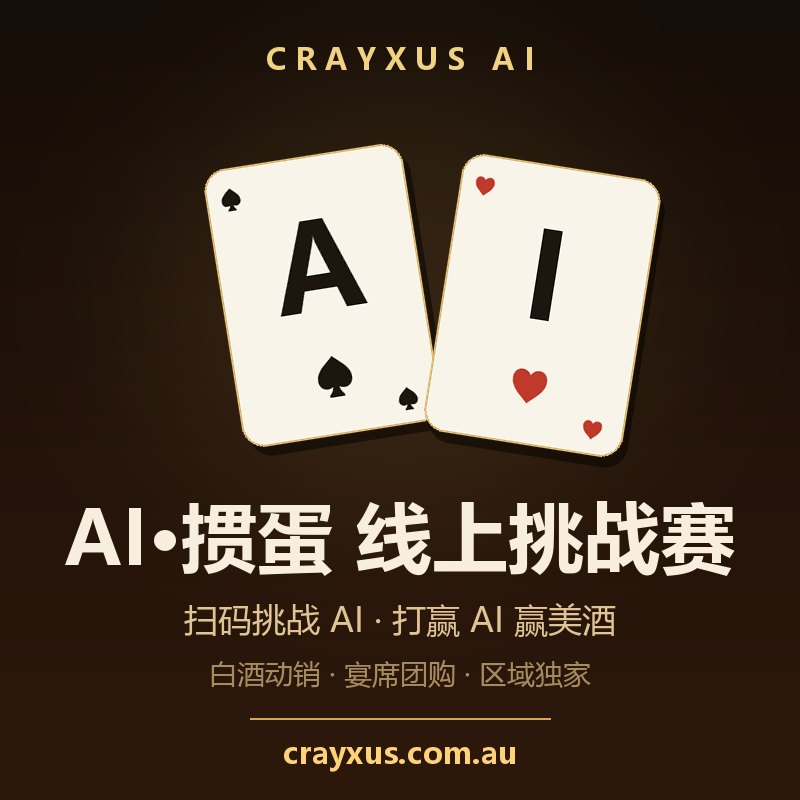
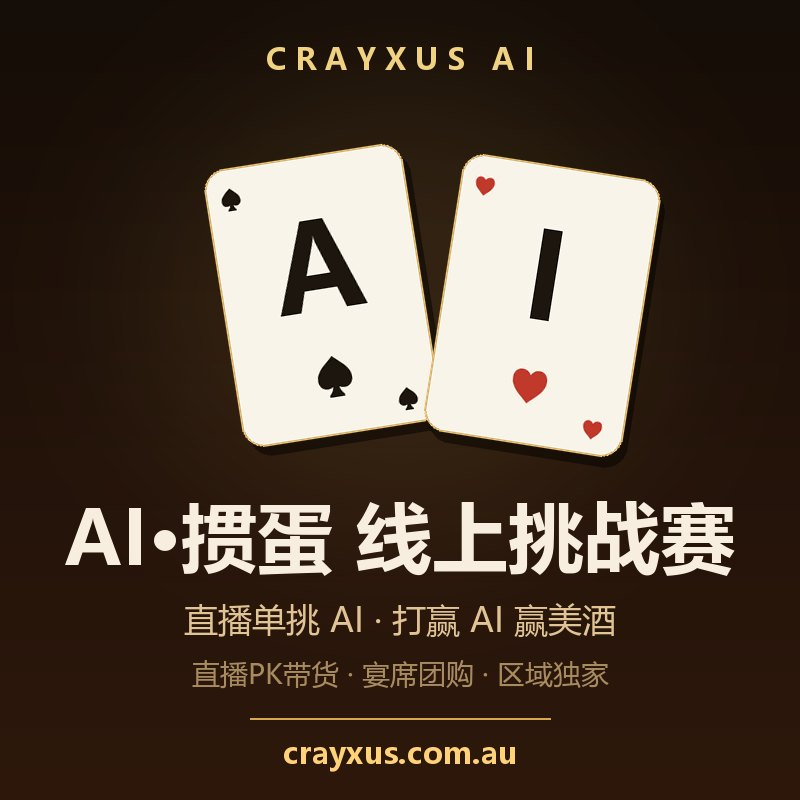
baijiu.html: 第一阶段=直播间AI掼蛋PK带货,重构为三阶段路线图 + 更新OG图

Changed region(s): [[0.2188, 0.75, 0.75, 0.875]]

diff --git a/baijiu.html b/baijiu.html
@@ -18,8 +18,8 @@
 <meta property="og:site_name" content="Crayxus AI">
 <meta property="og:title" content="AI·掼蛋 线上挑战赛 · 品牌合作方案">
 <meta property="og:description" content="浙大教授团队共同研发的掼蛋AI,600局全胜大模型。扫码1v1挑战AI赢美酒——把掼蛋变成你的营销引擎。Crayxus AI × 白酒品牌">
-<meta property="og:image" content="https://crayxus.com.au/og-baijiu.jpg?v=lq1">
-<meta property="og:image:secure_url" content="https://crayxus.com.au/og-baijiu.jpg?v=lq1">
+<meta property="og:image" content="https://crayxus.com.au/og-baijiu.jpg?v=lq2">
+<meta property="og:image:secure_url" content="https://crayxus.com.au/og-baijiu.jpg?v=lq2">
 <meta property="og:image:type" content="image/jpeg">
 <meta property="og:image:width" content="800">
 <meta property="og:image:height" content="800">
@@ -28,15 +28,15 @@
 <meta property="og:locale" content="zh_CN">
 
 <!-- 微信内置浏览器 / 老版本兜底 -->
-<meta itemprop="image" content="https://crayxus.com.au/og-baijiu.jpg?v=lq1">
-<meta name="image" content="https://crayxus.com.au/og-baijiu.jpg?v=lq1">
-<link rel="image_src" href="https://crayxus.com.au/og-baijiu.jpg?v=lq1">
+<meta itemprop="image" content="https://crayxus.com.au/og-baijiu.jpg?v=lq2">
+<meta name="image" content="https://crayxus.com.au/og-baijiu.jpg?v=lq2">
+<link rel="image_src" href="https://crayxus.com.au/og-baijiu.jpg?v=lq2">
 
 <!-- Twitter -->
 <meta name="twitter:card" content="summary_large_image">
 <meta name="twitter:title" content="AI·掼蛋 线上挑战赛 · 品牌合作方案">
 <meta name="twitter:description" content="浙大教授团队共同研发的掼蛋AI,600局全胜大模型。扫码1v1挑战AI赢美酒 — Crayxus AI × 白酒品牌">
-<meta name="twitter:image" content="https://crayxus.com.au/og-baijiu.jpg?v=lq1">
+<meta name="twitter:image" content="https://crayxus.com.au/og-baijiu.jpg?v=lq2">
 
 <style>
   :root{
@@ -171,12 +171,12 @@
 <div class="wrap">
 
 <header>
-  <div class="badge">品牌合作方案 · 2026</div>
+  <div class="badge">经销商合作方案 · 2026</div>
   <h1><span class="ai">AI</span>·掼蛋 线上挑战赛</h1>
-  <div class="hero-sub">把酒桌上最火的掼蛋,变成你撬动开瓶、动销与团购的营销武器</div>
+  <div class="hero-sub">从直播间 PK 带货开始,把酒桌上最火的掼蛋,变成你的卖酒引擎</div>
   <div class="hero-x"><b>CRAYXUS AI</b> &nbsp;×&nbsp; <b>白酒品牌 · 经销渠道</b></div>
   <div><span class="zju-pill">🎓 AI 引擎 · 浙江大学教授团队共同研发</span></div>
-  <div class="slogan">"敢不敢,挑战 <em>AI</em>?赢了,这瓶酒算我请。"<small>—— 扫瓶身码,微信打开即玩,真人 1v1 实时对战 AI。打赢 AI,赢美酒。</small></div>
+  <div class="slogan">"敢不敢,挑战 <em>AI</em>?赢了,这瓶酒算我请。"<small>—— 直播间主播单挑 AI,观众扫码同步参战。打赢 AI 送美酒,赢一局解锁秒杀价。</small></div>
 
   <!-- 扫码 1v1 对战可视化 -->
   <div class="hero-vis">
@@ -234,28 +234,30 @@
 </section>
 
 <section>
-  <h2>核心玩法 · 扫码挑战 AI 赢美酒</h2>
-  <div class="h2sub">消费者四步走完,品牌拿到一个获客 + 留资 + 传播的闭环</div>
+  <h2>第一阶段 · 直播间 AI掼蛋 PK 带货</h2>
+  <div class="h2sub">一部手机就能开播——把"人机大战"做成直播间的留人钩子和卖酒理由</div>
   <div class="flow">
-    <div class="f"><div class="n">STEP 1</div><b>扫码</b><span>扫瓶身 / 礼盒 / 物料二维码,微信直接打开</span></div>
-    <div class="f"><div class="n">STEP 2</div><b>挑战</b><span>真人 1v1 实时对战 AI,无需下载 App</span></div>
-    <div class="f"><div class="n">STEP 3</div><b>打赢</b><span>赢 AI / 达成段位,解锁奖励</span></div>
-    <div class="f"><div class="n">STEP 4</div><b>领酒</b><span>领酒 / 优惠券 / 抽奖,顺手晒朋友圈</span></div>
+    <div class="f"><div class="n">STEP 1</div><b>开播 PK</b><span>主播 1v1 实时单挑 AI,大屏显示牌局</span></div>
+    <div class="f"><div class="n">STEP 2</div><b>全员互动</b><span>观众弹幕指挥/押注 + 扫码自己挑战 AI 上榜</span></div>
+    <div class="f"><div class="n">STEP 3</div><b>打赢送酒</b><span>赢 AI 触发抽酒/送引流款,留人涨粉</span></div>
+    <div class="f"><div class="n">STEP 4</div><b>秒杀卖酒</b><span>赢一局解锁"挑战秒杀价"上小黄车,限时限量</span></div>
   </div>
   <div class="card" style="margin-top:16px">
-    <p><b>对经销商意味着什么:</b>同一张二维码,过去只换来一次抽奖;现在换来一次<b>有时长、有胜负、想分享</b>的人机对战,而且每一步都通向你的生意。</p>
+    <p><b>为什么把直播带货当第一阶段:</b>它是最快、最轻、最直接卖酒的一步——不用线下场地,今天就能开播,对着的就是你的现金流。</p>
     <ul>
-      <li><b>拉开瓶、拉加单</b>:奖励与"赢 AI"绑定——赢了当场领酒、整桌立减、送下次券,把对战的快乐直接变成开瓶率和加单。</li>
-      <li><b>绑团购、维客情</b>:对战入口可挂关注、入会、留电话,把宴席与团购的决策人沉淀成你的长期客户。</li>
-      <li><b>UGC 传播</b>:AI 段位卡、复盘报告、战胜 AI 的截图,都是客户自愿转发的物料,帮你的门店和品牌引流。</li>
-      <li><b>数据后台</b>:扫码量、参与率、开瓶、留资、加单实时可看,营销费用第一次能用数字核销。</li>
+      <li><b>启动成本最低</b>:一部手机 + 直播间 + 我们的 AI,当天就能上,不用等场地、不用铺码。</li>
+      <li><b>直接卖酒</b>:不是品牌曝光,是直播带货 GMV——"赢 AI 的爽感"立刻变成"现在下单"的冲动。</li>
+      <li><b>留人涨粉</b>:"主播能不能打赢 AI"天然留人,弹幕指挥、点赞解锁、评论抽酒,把停留、互动、涨粉一起拉起来——这正是直播算法最看重的。</li>
+      <li><b>自带素材、可复制</b>:人机大战精彩片段剪成短视频投流铺号,持续把人引回直播间;一套脚本跑通,可复制到多主播、多账号矩阵直播。</li>
+      <li><b>数据立等可取</b>:停留时长、互动率、涨粉、转化、GMV,一场直播就看出效果。</li>
     </ul>
+    <div class="price">你出:直播间 + 主播 + 账号 + 货盘奖品 · Crayxus 出:直播专用 AI 对战界面 + 观众扫码挑战 H5 + 实时榜单 + 话术脚本 SOP + 数据看板</div>
   </div>
 </section>
 
 <section>
-  <h2>三大场景包 · 为经销商量身定制</h2>
-  <div class="h2sub">围绕你真正的主战场——宴席、团购、终端,都用同一套线上 1v1 对战引擎</div>
+  <h2>第二阶段 · 把直播势能落到线下大单</h2>
+  <div class="h2sub">直播跑通、人气与客户起来后,用同一套 AI 引擎落到宴席、团购、终端——客单价更高、利润更厚</div>
 
   <div class="card">
     <h3><span class="tag">旗舰</span>宴席桌码挑战(动销主场)</h3>
@@ -303,27 +305,27 @@
   <div class="h2sub">各出所长——你掌握渠道、宴席与客户,Crayxus 提供 AI 技术引擎与区域独家</div>
   <table>
     <tr><th></th><th>你(白酒经销商)</th><th>Crayxus AI(技术方)</th></tr>
-    <tr><td><b>出什么</b></td><td>宴席 / 终端 / 团购渠道与场景 · 奖品(自有动销酒) · 客户资源 · 活动预算</td><td>线上 1v1 对战 / 测评 / 段位 / 复盘全套系统 · 品牌定制 · 桌码与物料模板 · <b>区域独家授权</b> · 数据后台</td></tr>
-    <tr><td><b>得到什么</b></td><td>开瓶与加单 · 团购与客情 · 留资与私域 · 可核销的营销数据 · 区域独门武器</td><td>系统服务费 · 按规模 / 活动计费 · 线上掼蛋课程转化</td></tr>
+    <tr><td><b>出什么</b></td><td>直播间 / 主播 / 账号 · 宴席 / 终端 / 团购渠道 · 奖品(自有动销酒) · 客户资源 · 投流与活动预算</td><td>直播专用 AI 对战界面 · 1v1 对战 / 测评 / 段位 / 复盘系统 · 直播话术脚本 SOP · 桌码与物料模板 · <b>区域独家授权</b> · 数据看板</td></tr>
+    <tr><td><b>得到什么</b></td><td>直播 GMV 与涨粉 · 开瓶与加单 · 团购与客情 · 留资与私域 · 区域独门武器</td><td>系统服务费 · 按规模 / 活动计费 · 线上掼蛋课程转化</td></tr>
     <tr><td><b>风险</b></td><td>先小范围试点,系统先行免费,不满意随时叫停</td><td>承担系统研发、定制与运维迭代成本</td></tr>
   </table>
 </section>
 
 <section>
-  <h2>落地三步走</h2>
-  <div class="h2sub">先跑一个试点,数据说话,再谈区域独家与常态化</div>
+  <h2>三步落地 · 分阶段路线图</h2>
+  <div class="h2sub">先用直播把势跑起来,数据说话,再落线下、签独家</div>
   <div class="steps">
     <div class="step">
-      <h3>试点上线<small>两周内可上</small></h3>
-      <p>选一家酒店宴席 / 一场客情赛接入:Crayxus 上线品牌定制版扫码挑战与桌码物料,<b>试点期系统先行免费</b>。先把"扫码—对战—赢酒—开瓶"全流程跑通,拿到第一批数据。</p>
+      <h3>第一阶段 · 直播 PK 带货<small>当天就能开播</small></h3>
+      <p>选一个账号 / 直播间接入直播专用 AI 对战界面 + 观众扫码挑战,按脚本试播 1–3 场,<b>试点期系统先行免费</b>。先把"PK—送酒—秒杀卖酒"跑通,拿到停留、互动、涨粉、GMV 第一批数据。</p>
     </div>
     <div class="step">
-      <h3>数据复盘 · 签订独家<small>试点后一周</small></h3>
-      <p>用真实的扫码量、开瓶、加单、留资数据做决策。双方满意则签订区域独家合作,按规模或活动计费,排期常态化宴席桌码 + 客情赛。</p>
+      <h3>第二阶段 · 落地线下大单<small>直播跑通后</small></h3>
+      <p>把直播攒下的人气与客户落到线下——宴席桌码挑战拉开瓶加单、AI 掼蛋客情赛签团购大单。线上引流、线下成交,客单价和利润一起上。</p>
     </div>
     <div class="step">
-      <h3>区域常态化 · 独家挂牌<small>当季</small></h3>
-      <p>全渠道铺码 + 月度客情赛 + 节庆限时赛 + 私域沉淀常态化,挂牌成为你区域的"AI 掼蛋"营销标杆,把对手没有的东西做成你的护城河。</p>
+      <h3>第三阶段 · 私域 + 区域独家<small>常态化</small></h3>
+      <p>直播矩阵 + 线下常态化 + 私域复购,签订区域独家,挂牌成为你区域的"AI 掼蛋"营销标杆,把对手没有的东西做成护城河。</p>
     </div>
   </div>
 </section>
@@ -352,7 +354,7 @@
 </div>
 
 <footer>
-  © 2026 Crayxus AI · AI·掼蛋 线上挑战赛 品牌合作方案<br>
+  © 2026 Crayxus AI · AI·掼蛋 线上挑战赛 经销商合作方案<br>
   Crayxus AI × 白酒品牌 · 经销渠道(合作洽谈中)
 </footer>
 

diff --git a/_make_og_baijiu.py b/_make_og_baijiu.py
@@ -69,8 +69,8 @@ img.paste(card_i, (375, 105), card_i)
 d = ImageDraw.Draw(img)
 center(d, 38, "C R A Y X U S   A I", f_brand, (240, 210, 130))
 center(d, 484, "AI·掼蛋 线上挑战赛", f_title, (247, 238, 223))
-center(d, 596, "扫码挑战 AI · 打赢 AI 赢美酒", f_sub, (224, 196, 150))
-center(d, 654, "白酒动销 · 宴席团购 · 区域独家", f_tag, (168, 140, 96))
+center(d, 596, "直播单挑 AI · 打赢 AI 赢美酒", f_sub, (224, 196, 150))
+center(d, 654, "直播PK带货 · 宴席团购 · 区域独家", f_tag, (168, 140, 96))
 d.line([(250, 718), (550, 718)], fill=(214, 168, 80), width=2)
 center(d, 732, "crayxus.com.au", f_url, (255, 210, 122))
 
